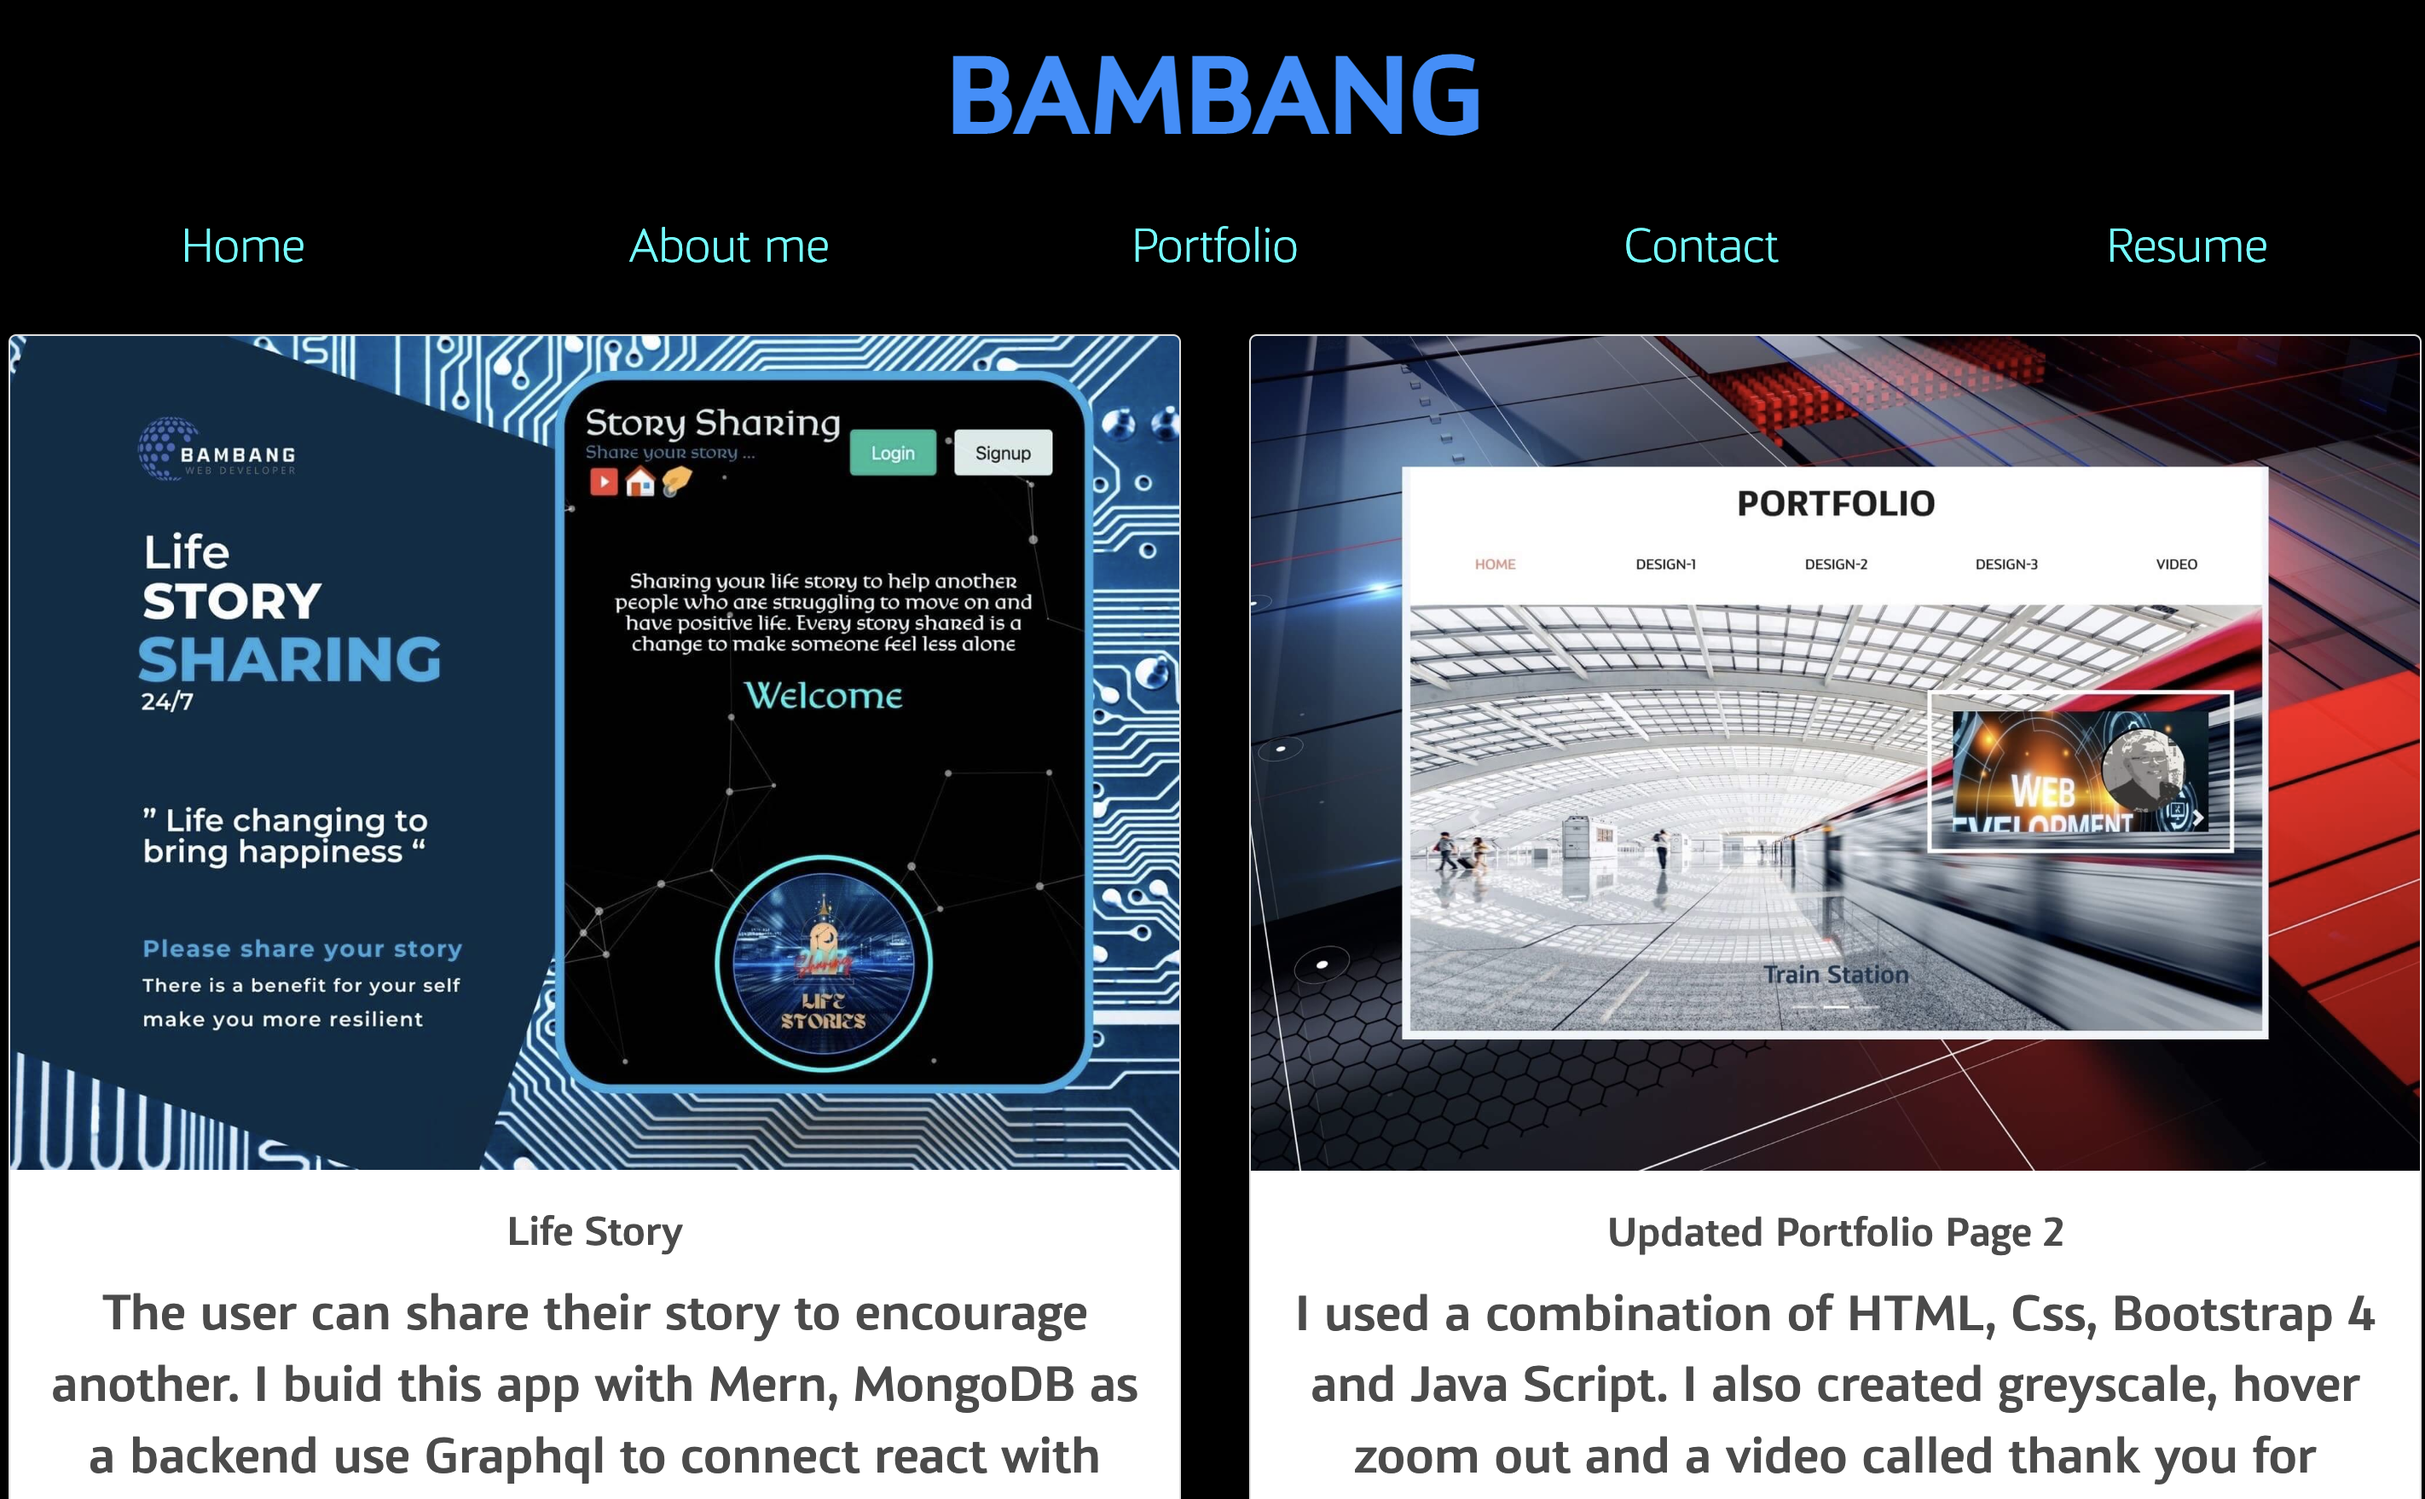
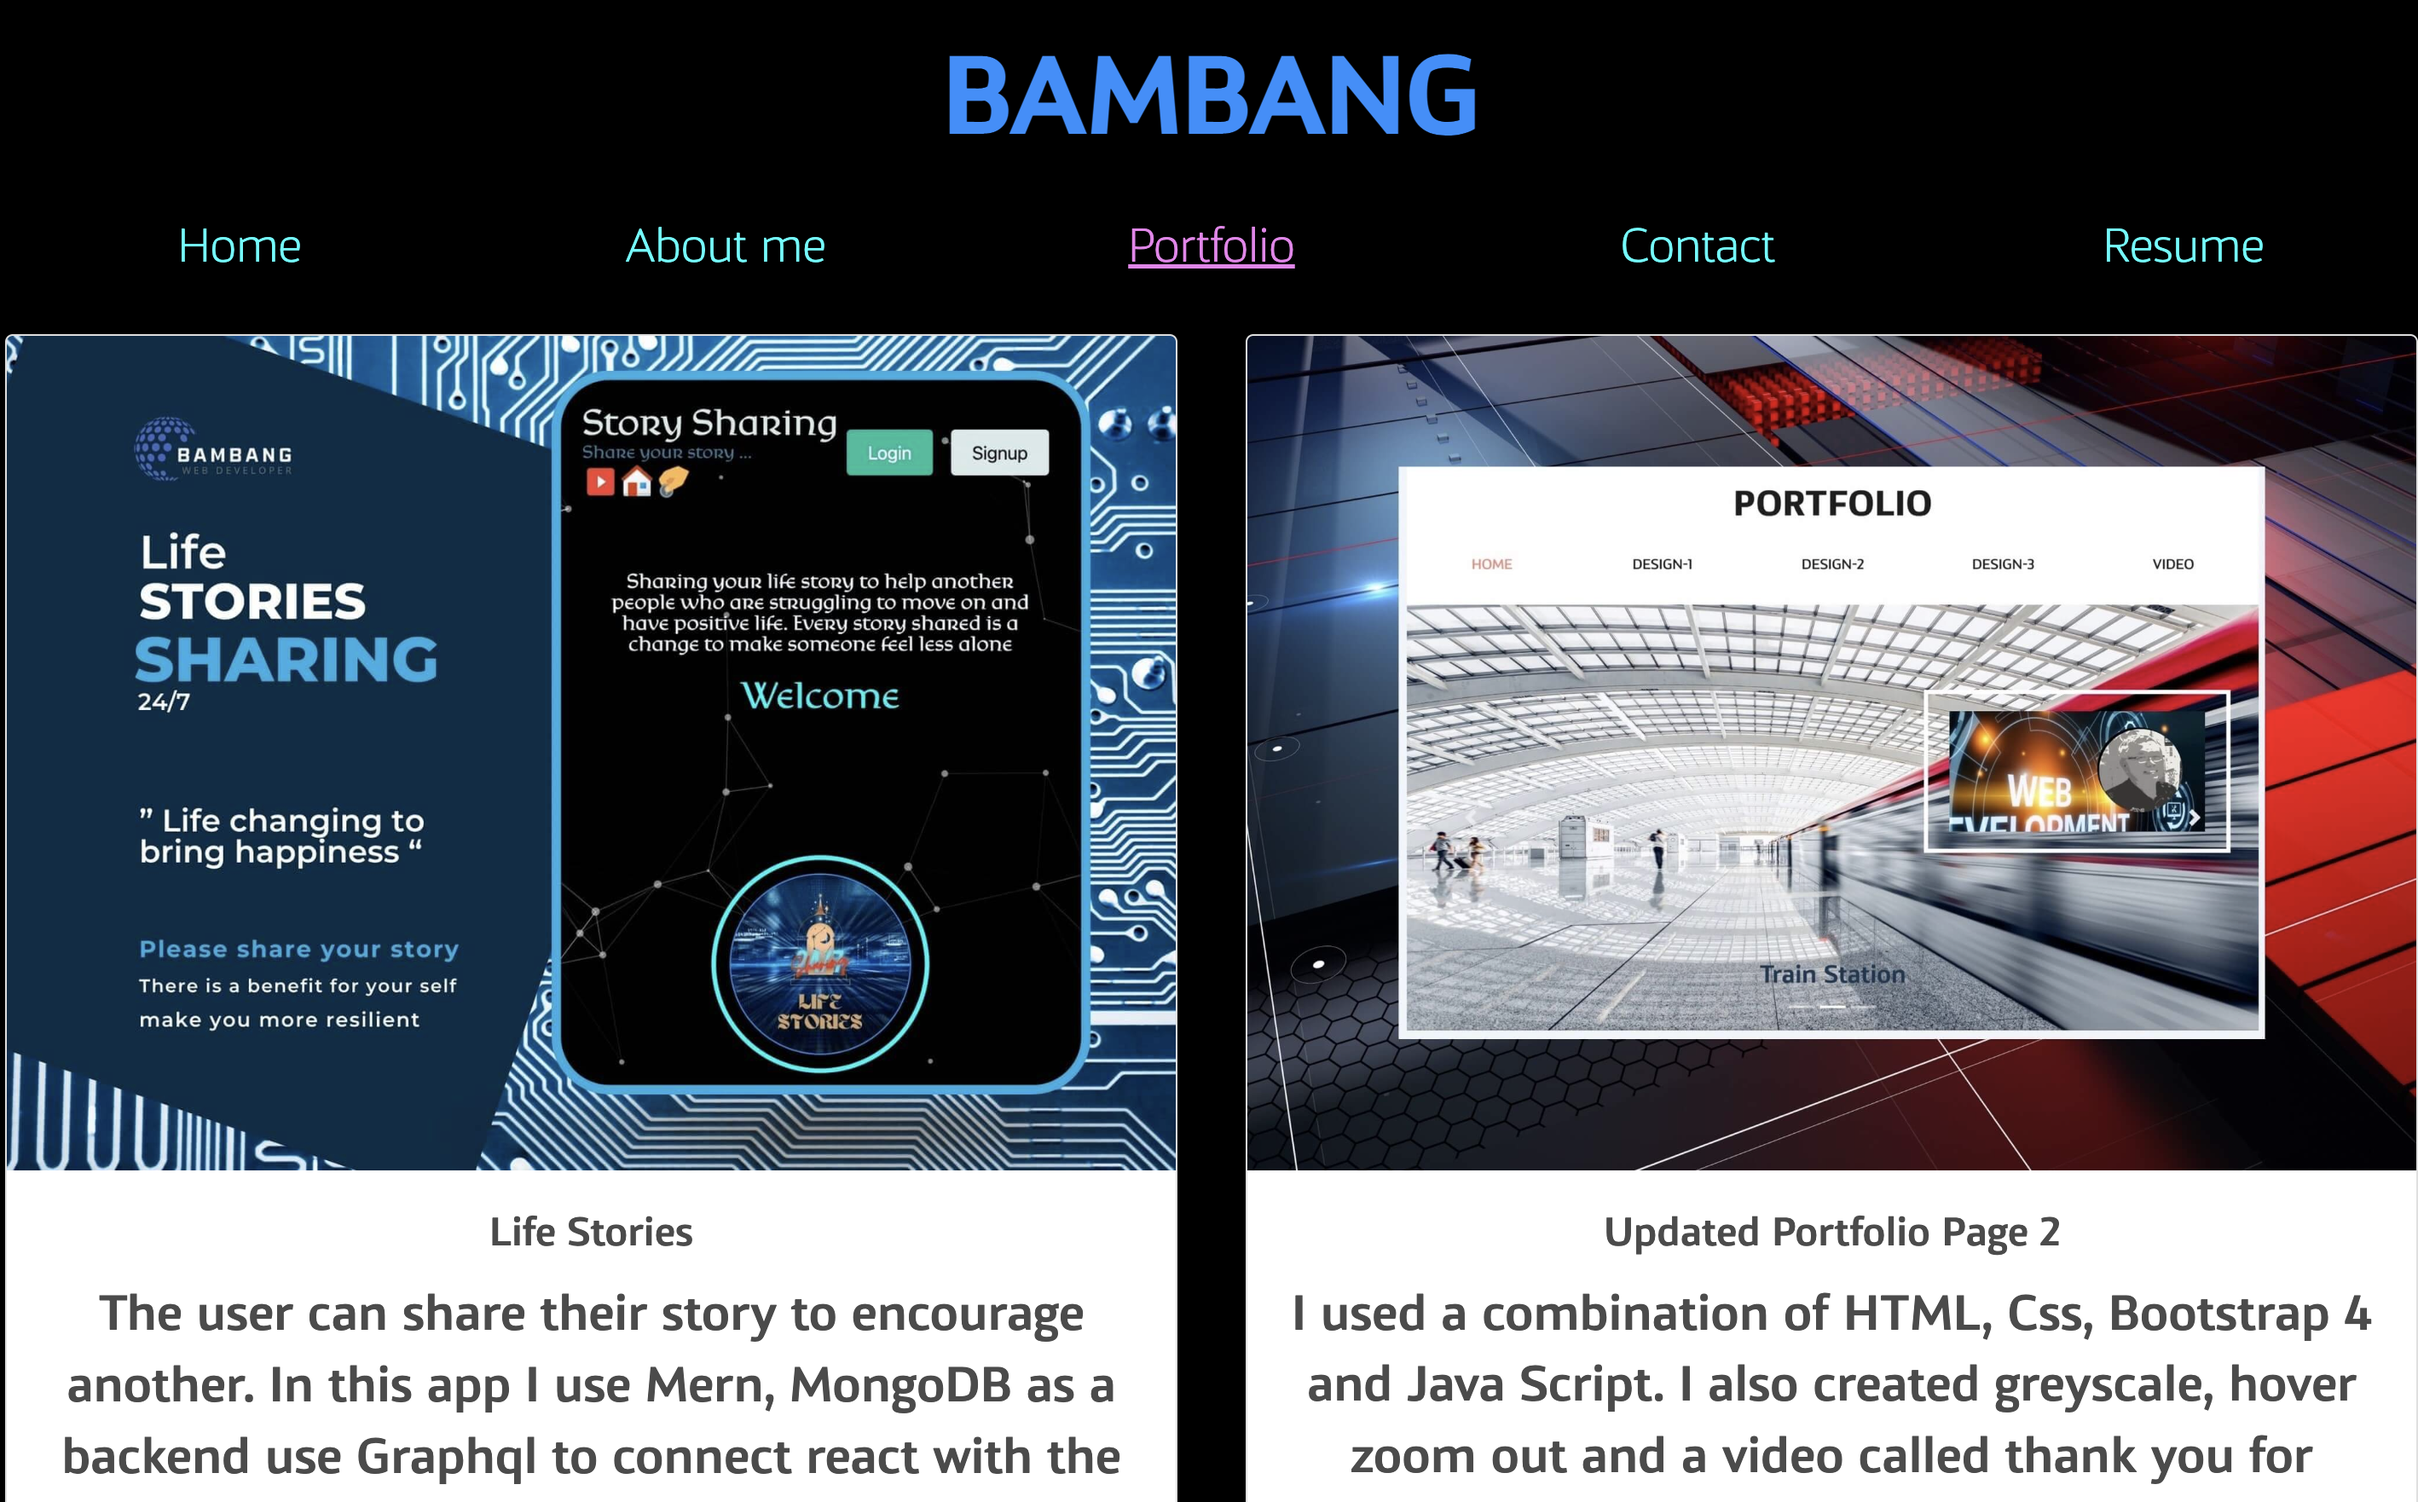
Readme.md

diff --git a/src/components/AboutMe.js b/src/components/AboutMe.js
@@ -24,8 +24,8 @@ export default function AboutMe() {
                 In year 1984 - 2000, as a Commisioner in Construction Company.
             </p>
             <p className="Me" style={{ color: "powderblue"}}>
-            In this Portfolio, I displayed Update Portfolio Page 2, Password Manager, Social Network API,
-            BCKS Project, Employee Tracker and Tech Blog.
+            In this Portfolio, I displayed Life Stories, Update Portfolio Page 2, Password Manager, Social Network API,
+            Employee Tracker and BCKS Project.
             </p> 
             <br/>        
         </div>

diff --git a/README.md b/README.md
@@ -5,7 +5,7 @@
 
 ## Description
 
-This React Portfolio is a single-page application portfolio has a single Header, Navigation and Footer component that appears on multiple pages. When we open the Github page link first appear the homepage, if you want to open About me, Portfolio, Resume and Contact, you can click the link you want to view without change the URl, only change the page. React is used Virtual DOM ( Document Object Model) that make it faster.Bambang Portfolio has display 6 projects, Updated Portfolio Page 2, Password Manager, Social Network API, BCKS Project, Employee Tracker and Tech Blog. This application doesn't include a back-end or connect to an API, so the contact form is not functional. I will add back-end functionality in the next few weeks. On the homepage I created a video as a background. 
+This React Portfolio is a single-page application portfolio has a single Header, Navigation and Footer component that appears on multiple pages. When we open the Github page link first appear the homepage, if you want to open About me, Portfolio, Resume and Contact, you can click the link you want to view without change the URl, only change the page. React is used Virtual DOM ( Document Object Model) that make it faster.Bambang Portfolio has display 6 projects: Life Stories, Updated Portfolio Page 2, Password Manager, Social Network API,  Employee Tracker and BCKS Project. This application doesn't include a back-end or connect to an API, so the contact form is not functional. I will add back-end functionality for the future. On the homepage I created tsparticles as a background. 
 
 ## Table of Contents (Optional)
 
@@ -40,7 +40,7 @@ This React Portfolio is a single-page application portfolio has a single Header,
 ```md
 As a user,
 WHEN I load the portfolio
-THEN I am presented with a homepage containing a header with links, a video background, and a footer
+THEN I am presented with a homepage containing a header with links, a hero with tsparticles background, and a footer
 WHEN I view the header
 THEN I am presented with the developer's name and navigation with titles corresponding to different sections of the portfolio
 WHEN I view the navigation titles
@@ -50,7 +50,7 @@ THEN I am presented with the corresponding section below the navigation without 
 WHEN I load the portfolio the first time
 THEN the homepage is selected by default
 WHEN I am presented with the About Me section
-THEN I see a recent photo or avatar of the developer and a short bio about them
+THEN I see a recent photo of the developer and a short bio about them
 WHEN I am presented with the Portfolio section
 THEN I see titled images of six of the developer’s applications with links to both the deployed applications and the corresponding GitHub repositories
 WHEN I am presented with the Contact section
